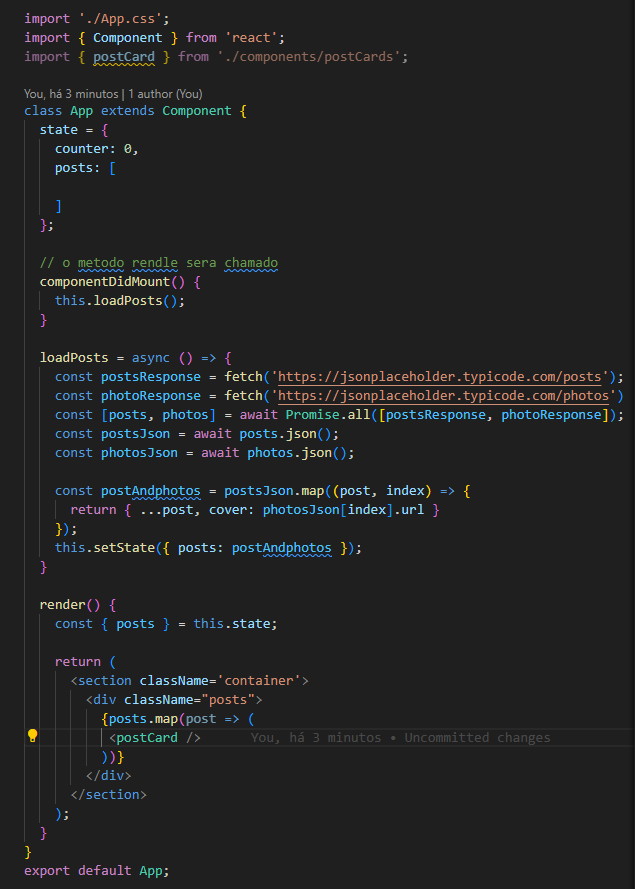
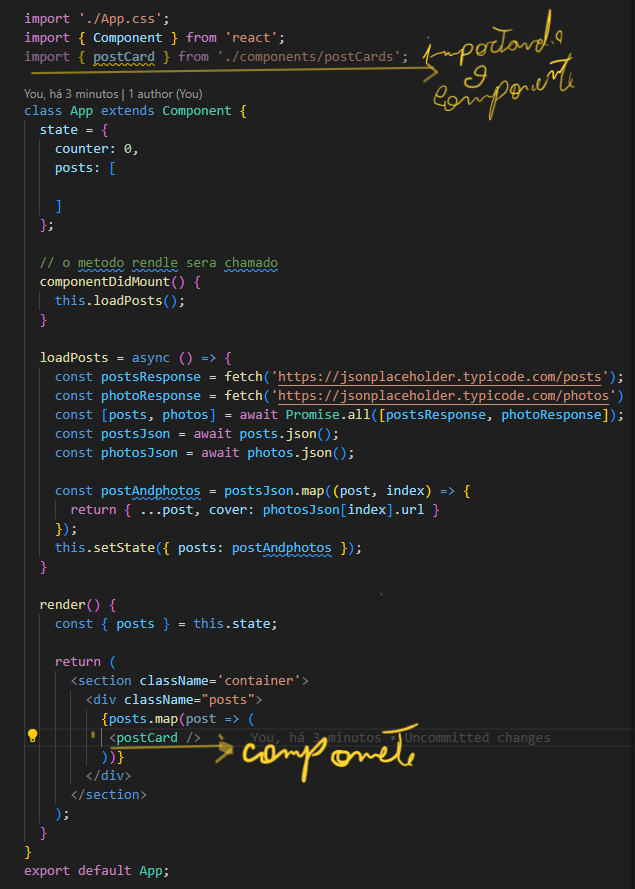
formatando

diff --git a/1/aulas/14.html b/1/aulas/14.html
@@ -38,14 +38,17 @@
             <div class="exemplos">
                 <span class="lembrete">
                     src/components/postCard/index.jsx
-                </span>
-                <img class="imgM" src="../../frontend/assets/img/componentCard.png" alt="">
+                </span> <br>
+                Aqui esta sendo exportado um objeto
+                <img class="imgM" src="../../frontend/assets/img/componentCard.png" alt=""> <br>
+                <a href="./13.html" style="color: brown; text-decoration: none;"><strong> props</strong></a> esta sendo
+                usado
             </div>
             <div class="anotacoes">
                 <span class="lembrete">
                     src/App.js
                 </span>
-                <img class="zoomImg" src="../../frontend/assets/img/appjs.png" alt=""> 
+                <img class="zoomImg" src="../../frontend/assets/img/appjs.png" alt="">
             </div>
         </p>
 

diff --git a/projeto-1/src/App.js b/projeto-1/src/App.js
@@ -36,7 +36,7 @@ class App extends Component {
       <section className='container'>
         <div className="posts">
           {posts.map(post => (
-           <postCard />
+           <postCard atributo= 'aqui q esta sendo passado para o props, seria atributo' />
           ))}
         </div>
       </section>
